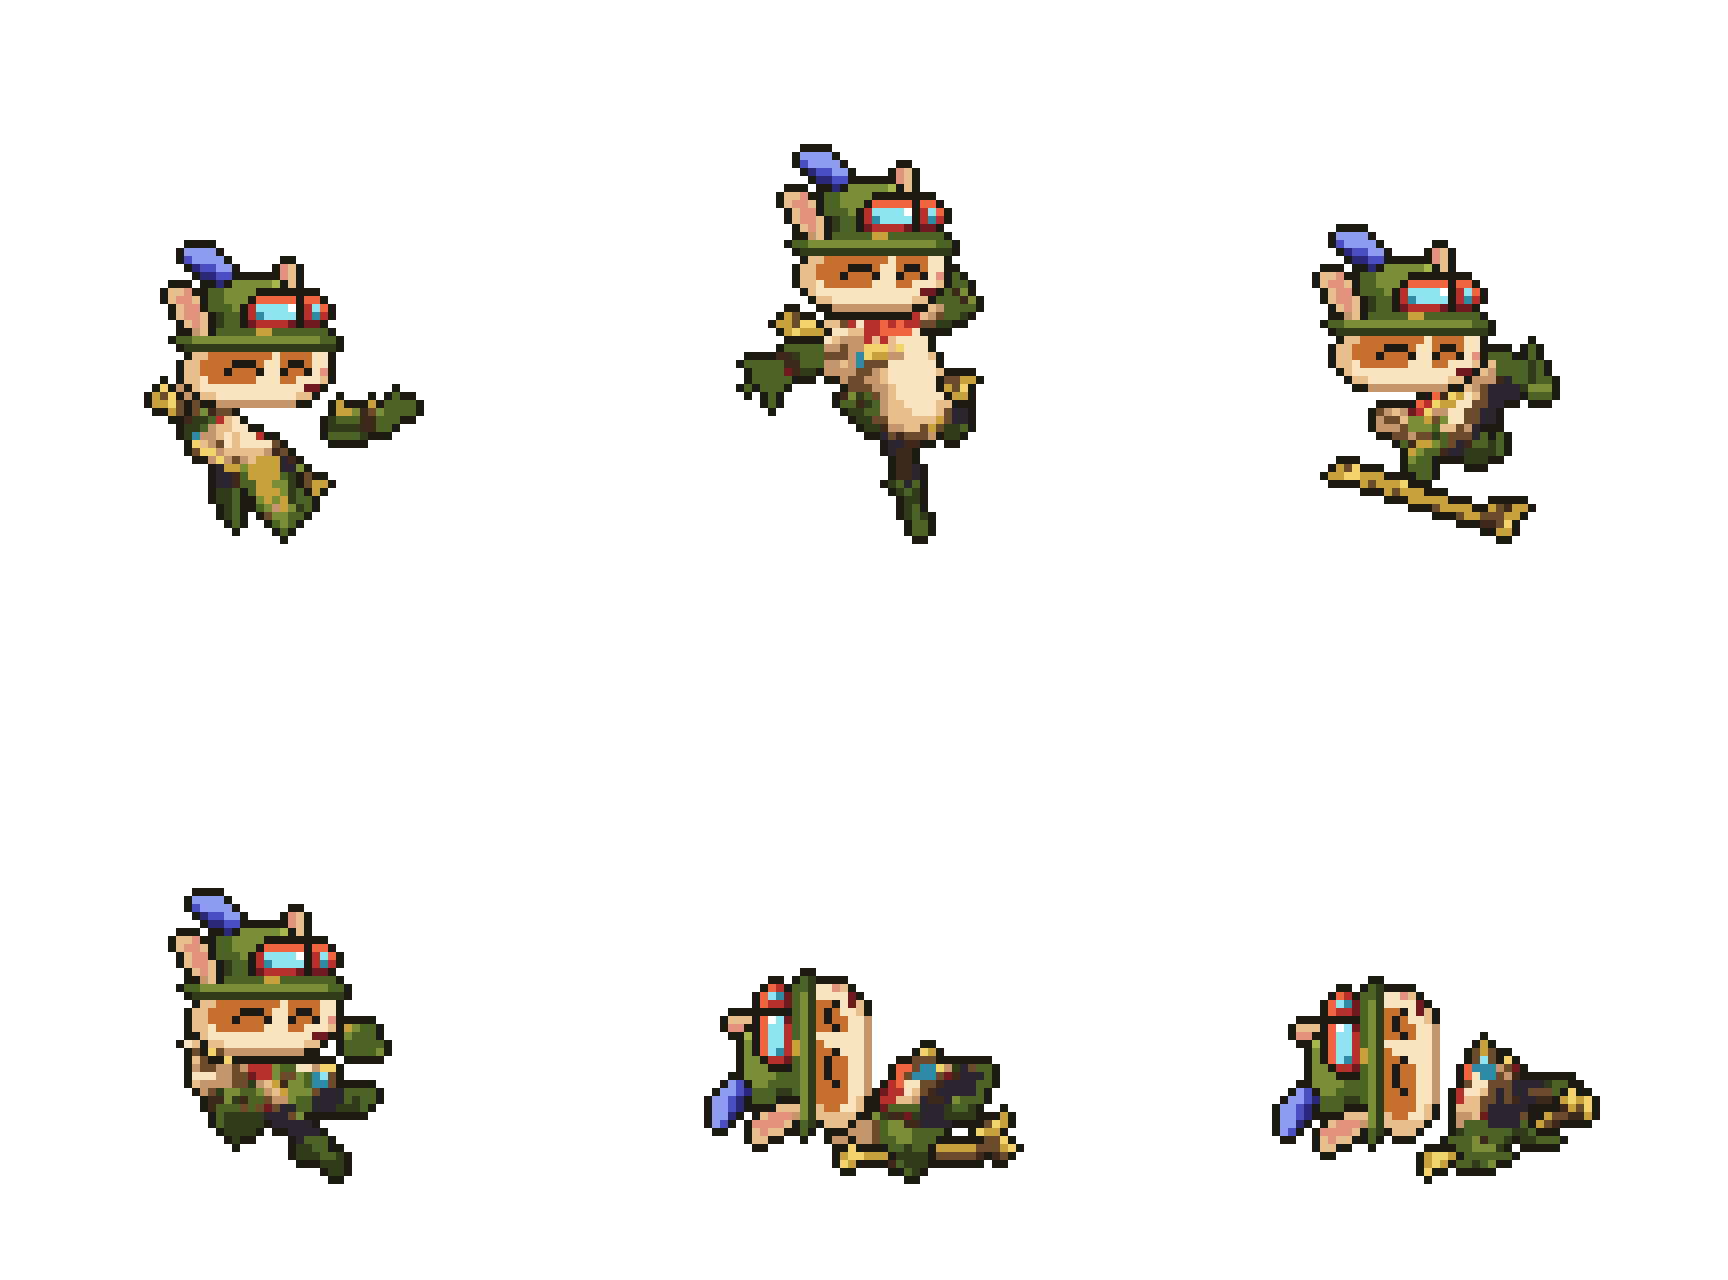
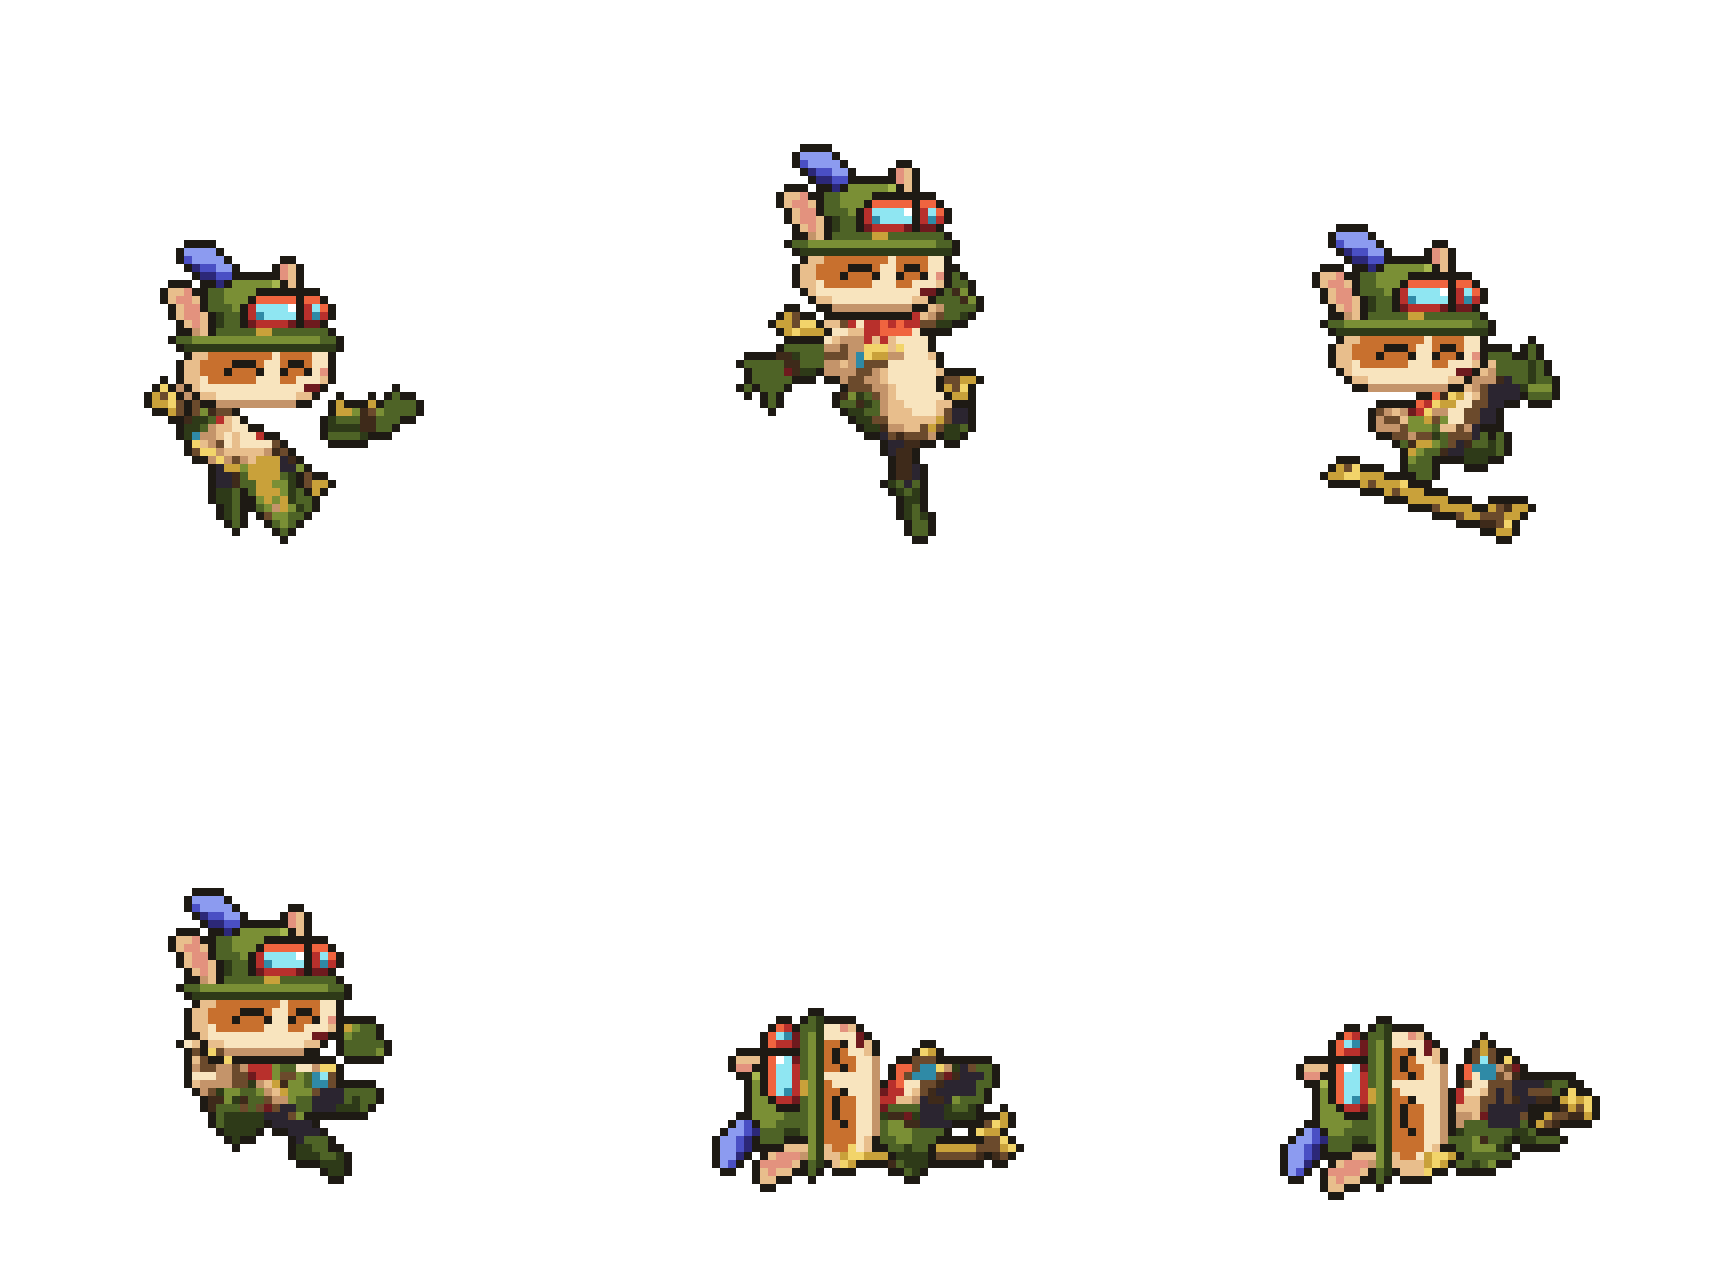
Teemo: the head stays on the neck when he lies down
In the last two death frames the pasted head is turned a quarter (he lies on his back), and it
landed 3 px left of and 2 px above League's neck: restyle_native added the head's dx / dy after
turning it, in screen directions, though they belong to the upright head. They are now folded
into the joint's place inside the head before the turn. The user saw the head come off the body
in the preview GIF. Heroes without dx / dy (Darius, Amumu) are unchanged by construction; only
teemo_dead.png and Teemo's sheet change.

Changed region(s): [[0.7188, 0.75, 0.8438, 0.9375], [0.4062, 0.75, 0.5312, 0.9375]]

diff --git a/tools/art/restyle_native.py b/tools/art/restyle_native.py
@@ -292,7 +292,11 @@ def paste_head(a, weapon, head, joint, tilt, turn=TURN, dy=0, dx=0):
     g = np.array([[c or "" for c in row] for row in head], dtype=object)
     H, W = g.shape
     if tilt <= -turn:                      # lying on his back: the crown points left, the face up
+        # dx / dy move the block against the joint in the upright head: turn them with it, or the
+        # quarter-turned head lands beside the neck (league_teemo's death: 3 px left, 2 px up)
+        jx, jy = jx - dx, jy - dy
         g, (jx, jy) = np.rot90(g, 1), (jy, W - jx)
+        dx = dy = 0
     x0, y0 = int(round(x - jx)) + dx, int(round(y - jy)) + dy
     for j, row in enumerate(g):
         for i, c in enumerate(row):
